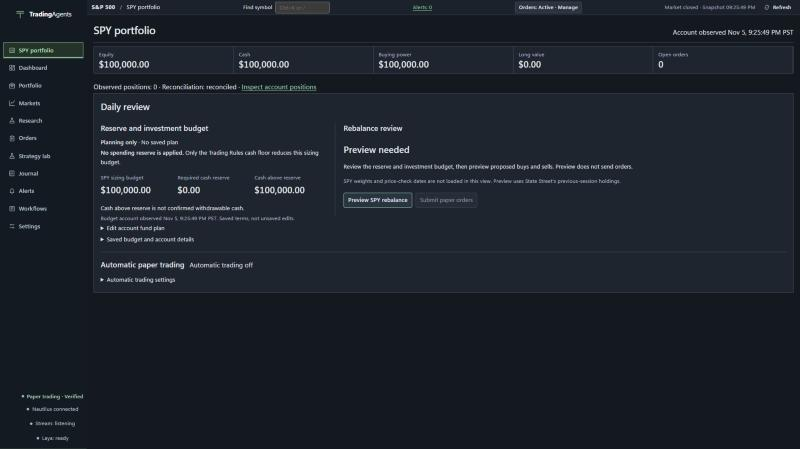
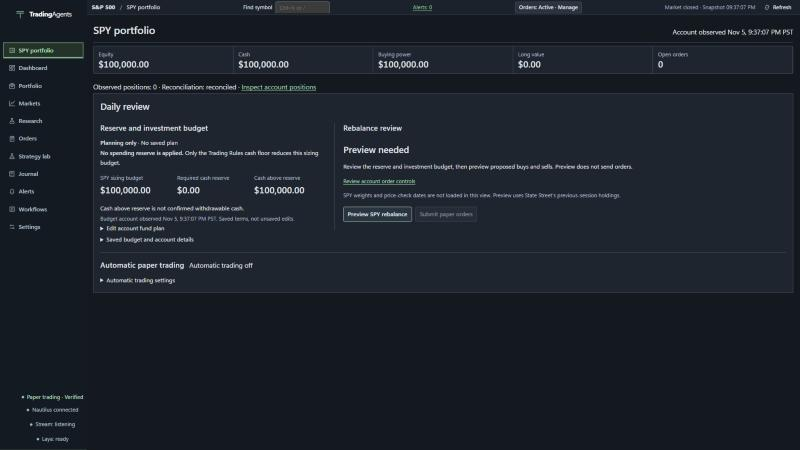
Expose SPY account exceptions and retain the recovery handoff
Reuse existing account-only submission checks without importing ticket approval rules. Keep the account-control pane visible through normal updates and preserve separate Orders-tab scroll positions. Record independent review and real clear-state navigation and preview evidence.

diff --git a/tradingagents/web/static/app.js b/tradingagents/web/static/app.js
@@ -651,11 +651,11 @@ async function readState({force=false,timeoutMs}={}){
 }
 async function act(key,path,body,success){if(busy.has(key))return;busy.add(key);errorMessage='';render();try{const result=await api(path,body);if(success)showToast(success);await readState({force:true});return result;}catch(e){setError(e.message);throw e;}finally{busy.delete(key);render();}}
 const disclosureViews=new Map(),closedDisclosures=new Map();
-const workspaceScrolls=new Map(),workspaceScrollSelectors=['.workspace-reading','.decision-reading','.settings-content','[data-alert-pane]','.alert-inspector-body','.portfolio-performance','.strategy-setup-rail','.strategy-result-reading','.spy-preview-trades'];
+const workspaceScrolls=new Map(),workspaceScrollSelectors=['.workspace-reading','.decision-reading','.settings-content','[data-alert-pane]','.alert-inspector-body','.portfolio-performance','.strategy-setup-rail','.strategy-result-reading','.spy-preview-trades','.orders-review-pane'];
 function captureWorkspaceScroll(){for(const node of document.querySelectorAll('[data-workspace-scroll-key]'))if(node.getClientRects().length)workspaceScrolls.set(node.dataset.workspaceScrollKey,[node.scrollTop,node.scrollLeft]);}
 function restoreWorkspaceScroll(){
  const record=activePage==='strategy'?[strategyTab,strategyView,strategyTab==='simulations'?evaluationItem?.id:experimentItem?.id,experimentStrategyId]:activePage==='journal'?[journalTab,journalSelected||journalRecord?.decisions?.[0]?.id,decisionTab,journalCollection]:activePage==='settings'?[settingsTab]:activePage==='portfolio'?[portfolioTab,journalCollection]:[alertsTab,attentionEvidenceRequest?.id,alertEvidenceTab];
- for(const selector of workspaceScrollSelectors)document.querySelectorAll(selector).forEach((node,index)=>{node.dataset.workspaceScrollKey=JSON.stringify([activePage,...record,selector,node.dataset.alertPane||index]);const saved=workspaceScrolls.get(node.dataset.workspaceScrollKey);if(saved){node.scrollTop=saved[0];node.scrollLeft=saved[1];}});
+ for(const selector of workspaceScrollSelectors)document.querySelectorAll(selector).forEach((node,index)=>{node.dataset.workspaceScrollKey=JSON.stringify([activePage,...record,selector,node.dataset.alertPane||node.dataset.ordersPane||index]);const saved=workspaceScrolls.get(node.dataset.workspaceScrollKey);if(saved){node.scrollTop=saved[0];node.scrollLeft=saved[1];}});
 }
 document.addEventListener('scroll',event=>{const node=event.target;if(node.dataset?.workspaceScrollKey&&node.getClientRects().length)workspaceScrolls.set(node.dataset.workspaceScrollKey,[node.scrollTop,node.scrollLeft]);},true);
 function render({force=false}={}){if(!state)return;captureWorkspaceScroll();const disclosureKey=activePage+':'+selectedSymbol,previousMain=document.querySelector('#main');if(previousMain?.dataset.contextKey){const allDetails=Array.from(previousMain.querySelectorAll('details[id]'));disclosureViews.set(previousMain.dataset.contextKey,allDetails.filter(d=>d.open).map(d=>d.id));closedDisclosures.set(previousMain.dataset.contextKey,allDetails.filter(d=>!d.open).map(d=>d.id));}const savedInput=!force&&previousMain?.dataset.contextKey===disclosureKey?captureRenderInput(previousMain):null;const before=document.activeElement,caret=[before?.selectionStart,before?.selectionEnd];renderChrome();renderNotice();if(activePage==='workflows'&&previousMain?.dataset.page==='workflows'&&!force){workflowPoll();UniverseReview.renderTicket();return;}if(activePage==='settings'&&credentialDirty&&($('#credential-alpaca')||$('#credential-service')))return;if(activePage==='settings'&&['Research','Integrations'].includes(settingsTab)&&settingsDirty&&$('#settings-form')?.isConnected&&!force){updateLayaStatus();return;}const focused=before;const focusId=focused?.id;const scrollPanel=$('#research-detail-scroll');const readingAnchor=reportReadingAnchor(scrollPanel);const previousView=scrollPanel?.dataset?.view;const reportScroll=scrollPanel?.scrollTop||0;if(previousView!==undefined)reportViews.set(previousView,{open:reportViews.get(previousView)?.open||openReportNames,scroll:reportScroll});syncReportView();const nextReportScroll=previousView===reportViewKey?reportScroll:(reportViews.get(reportViewKey)?.scroll||0);const main=$('#main'),scrolls=$$('.table-scroll,.research-rows',main).map(el=>({top:el.scrollTop,left:el.scrollLeft}));const markup=renderWorkspace();if(!force&&activePage==='research'&&main.dataset.page==='research'&&researchMarkup===markup){UniverseReview.renderTicket();ensureResultDetail();return;}researchMarkup=activePage==='research'?markup:null;const pageChanged=main.dataset.page!==activePage;const retainedModelDate=!force&&savedInput?.node===focused&&retainModelDateControls(main,markup,focused);if(!retainedModelDate)main.innerHTML=markup;main.dataset.page=activePage;if(pageChanged){main.scrollTop=0;main.scrollLeft=0;}if(['spy','markets','portfolio','orders'].includes(activePage))UniverseReview.bind();if(activePage==='alerts')UniverseReview.bindAlerts();if(activePage==='settings')bindSettings();if(activePage==='workflows')bindWorkflows();UniverseReview.renderTicket();main.dataset.contextKey=disclosureKey;for(const id of disclosureViews.get(disclosureKey)||[]){const detail=document.getElementById(id);if(detail?.tagName==='DETAILS')detail.open=true;}for(const id of closedDisclosures.get(disclosureKey)||[]){const detail=document.getElementById(id);if(detail?.tagName==='DETAILS')detail.open=false;}if(activePage==='settings'&&settingsTab==='Research'&&state.readiness?.ready===false)$('.page-heading',main).insertAdjacentHTML('afterend',`<div class="error-detail">${esc(state.readiness.message)}</div>`);if(focusId&&!retainedModelDate){let next=document.getElementById(focusId);if(next&&(focused?.dataset?.listQuery||['watchlist-name','investor-note','decision-search'].includes(focused?.id))&&next.tagName===focused.tagName){next.replaceWith(focused);next=focused;}if(next&&next.tagName===focused.tagName)next.focus({preventScroll:true});if(next?.setSelectionRange&&caret[0]!==null&&caret[0]!==undefined)try{next.setSelectionRange(...caret);}catch{}}if(!focusId&&focused?.tagName==='A'&&focused.getAttribute?.('href')){const next=$$('#navigation a').find(el=>el.getAttribute('href')===focused.getAttribute('href'));next?.focus({preventScroll:true});}if(!focusId&&focused?.dataset?.action){const next=$$('[data-action]',main).find(el=>el.dataset.action===focused.dataset.action&&el.dataset.symbol===focused.dataset.symbol&&el.dataset.proposal===focused.dataset.proposal&&el.dataset.list===focused.dataset.list&&el.dataset.direction===focused.dataset.direction&&el.dataset.order===focused.dataset.order);if(next)next.focus({preventScroll:true});}if($('#research-detail-scroll')){$('#research-detail-scroll').scrollTop=nextReportScroll;if(previousView===reportViewKey)restoreReadingAnchor($('#research-detail-scroll'),readingAnchor);}$$('.table-scroll,.research-rows',main).forEach((el,i)=>{if(scrolls[i]){el.scrollTop=scrolls[i].top;el.scrollLeft=scrolls[i].left;}});restoreWorkspaceScroll();restoreRenderInput(retainedModelDate?null:savedInput);bindTablists(main);persistView();observeChartSize();if(activePage==='overview'&&$('.chart-wrap'))ensureChart();if(activePage==='research')ensureResultDetail();}
@@ -3275,13 +3275,16 @@ function spyRebalanceMarkup(){
   state.nautilus?.status==='connected'&&state.nautilus.account?.id===account&&spyPreview.fundRevision===investorRecord.fund_plans?.revision&&spyPreview.policyRevision===investorRecord.data?.policy?.revision?spyPreview:null;
  const rows=preview?spyTradeRows(preview.trades):null;
  const message=spyPreview&&!preview?'':spyHoldingsMessage;
- const canSubmit=eligible&&!schedule.in_progress&&preview?.submitToken&&Date.now()<preview.submitExpires;
+ const accountReasons=accountOrderReasons();
+ const canSubmit=!accountReasons.length&&eligible&&!schedule.in_progress&&preview?.submitToken&&Date.now()<preview.submitExpires;
  const previewExpired=preview?.submitToken&&!canSubmit&&Date.now()>=preview.submitExpires;
  const unavailable=!account?'An eligible paper account is unavailable.':bound&&bound!==account?'The rebalance is bound to a different paper account. Review automatic trading settings.':!investorRecord.broker_transport_enabled?'Broker transport is unavailable.':!fundContract(investorRecord.fund_plans)?'The account fund plan is unavailable.':investorRecord.fund_plans.current_account_id!==account?'The fund plan does not match the eligible paper account.':'Resolve the budget error before previewing.';
- const reviewStatus=spyRebalanceBusy?'Updating rebalance…':schedule.in_progress?'Rebalance in progress':!eligible?'Rebalance unavailable':previewExpired?'Preview expired':preview?.policyBlockers.length?'Trading Rules block submission':preview&&!preview.trades.length?'No trades in this preview':canSubmit?'Preview ready for review':preview?'Preview needs refreshing':'Preview needed';
- const guidance=!eligible?unavailable:schedule.in_progress?'A rebalance is in progress. Review its status before another submission.':!preview?'Review the reserve and investment budget, then preview proposed buys and sells. Preview does not send orders.':preview.policyBlockers.length?'Resolve the Trading Rules blockers before submitting.':!preview.trades.length?'This preview contains no orders to submit.':!canSubmit?'Generate a new preview before submitting paper orders.':'Review the full proposed trade list before submitting. Submission is a separate broker action.';
+ const reviewStatus=spyRebalanceBusy?'Updating rebalance…':schedule.in_progress?'Rebalance in progress':!eligible?'Rebalance unavailable':accountReasons.length?'Submission blocked':previewExpired?'Preview expired':preview?.policyBlockers.length?'Trading Rules block submission':preview&&!preview.trades.length?'No trades in this preview':canSubmit?'Preview ready for review':preview?'Preview needs refreshing':'Preview needed';
+ const guidance=!eligible?unavailable:schedule.in_progress?'A rebalance is in progress. Review its status before another submission.':accountReasons.length?'Resolve the account conditions below before submitting. Preview does not clear them.':!preview?'Review the reserve and investment budget, then preview proposed buys and sells. Preview does not send orders.':preview.policyBlockers.length?'Resolve the Trading Rules blockers before submitting.':!preview.trades.length?'This preview contains no orders to submit.':!canSubmit?'Generate a new preview before submitting paper orders.':'Review the full proposed trade list before submitting. Submission is a separate broker action.';
  return heading+'<div class="spy-review-layout">'+fundPlanMarkup()+
   '<section class="spy-manual-review" aria-labelledby="spy-review-heading"><h3 id="spy-review-heading">Rebalance review</h3><p class="spy-review-status" role="status">'+esc(reviewStatus)+'</p><p>'+esc(guidance)+'</p>'+
+  (accountReasons.length?'<div id="spy-account-exceptions" class="warning" role="alert"><strong>Account conditions block submission</strong><ul>'+accountReasons.map(reason=>'<li>'+esc(reason)+'</li>').join('')+'</ul></div>':'')+
+  '<p class="spy-source-note"><a id="spy-account-controls" href="#orders">Review account order controls</a></p>'+
   '<p class="spy-source-note">'+(preview?'State Street SPY weights dated '+esc(preview.asOf)+' · Preview price check '+fullTime(preview.quoteAt):'SPY weights and price-check dates are not loaded in this view. Preview uses State Street’s previous-session holdings.')+'</p>'+
   (run?'<p role="status">Rebalance: '+esc(run.session+' · '+run.message+(run.total?' · '+run.completed+' of '+run.total+' processed':'')+(run.limited?' · '+run.limited+' buys reduced or skipped':''))+'</p>':'')+
   '<div class="basket-actions"><button class="primary" data-spy-rebalance="preview" '+(!eligible||spyRebalanceBusy?'disabled':'')+'>Preview SPY rebalance</button>'+
@@ -3378,6 +3381,7 @@ function bindBaskets(root){
   if(e.target.dataset.basketFill){const s=e.target.dataset.basketFill;basketForm.assumed_filled=e.target.checked?[...new Set([...basketForm.assumed_filled,s])]:basketForm.assumed_filled.filter(v=>v!==s);investorDirty=true;}
  });
  root.addEventListener('click',e=>{
+  if(e.target.closest('#spy-account-controls')){e.preventDefault();togglePause();return;}
   if(e.target.id==='spy-trade-clear'){spyTradeQuery='';const input=root.querySelector('#spy-trade-query');if(input){input.value='';updateSpyTradeFilter();input.focus();}return;}
   if(e.target.id==='fund-save'){saveFundPlan();return;}
   if(e.target.id==='fund-reload'){reloadFundPlan();return;}

diff --git a/tradingagents/web/static/command-controls.js b/tradingagents/web/static/command-controls.js
@@ -51,8 +51,8 @@ function orderSessionNotice(order,terms){
  return '<p>Reviewed session: '+esc(reviewed)+' · broker-reported session: '+esc(broker)+'. Broker session is retained for cancellation/replacement review; it is not silently changed to regular.</p>'+((order?.extended_hours===true||terms?.session==='extended')?'<p>Extended includes pre-market, after-hours and potentially overnight according to current broker/account/asset capabilities. It does not guarantee pre/post-only execution or an overnight IEX quote. Replacements cannot change the session.</p>':'');
 }
 function linkedOrderNotice(order){return order?.group_parent_id||['bracket','oto','oco'].includes(order?.group_class)?'<p>Canceling a linked order asks Alpaca to cancel the remaining linked orders. '+(order.group_class==='oco'?'These exits share existing shares; canceling them leaves those shares without these exits.':'A partial entry can remain without an active exit.')+' Bracket and OCO exits support price-only changes with new exact approval; OTO replacement is unsupported.</p>':'';}
-function orderReadiness(){
- const record=state.commands||{},data=record.data||{},runtime=state.nautilus||{},sync=runtime.reconciliation||{},investor=state.investor||{},reasons=[];
+function accountOrderReasons(){
+ const record=state.commands||{},data=record.data||{},runtime=state.nautilus||{},sync=runtime.reconciliation||{},reasons=[];
  if(record.execution_enabled!==true)reasons.push('Order submission is unavailable in this browse-only session.');
  if(stateErrorMessage||state.connection?.connected!==true||state.connection?.account_verified!==true)reasons.push('Current account and Nautilus sync are unverified; refresh the local service. Saved pause and order records remain separate.');
  if(runtime.status!=='connected')reasons.push('Account connection: '+(runtime.status||'not connected')+(runtime.error?' · '+runtime.error:'. Connect or refresh the account.'));
@@ -60,6 +60,10 @@ function orderReadiness(){
  if(data.new_orders_blocked===true)reasons.push('You have paused new orders.');
  if(runtime.status==='connected'&&sync.status!=='reconciled')reasons.push('Nautilus account sync: '+((sync.gaps||[]).join('; ')||runtime.native_import_gap||'account and order observations are incomplete.'));
  if(data.recovery_required&&sync.status==='reconciled')reasons.push('Account and order sync: '+(data.recovery_reason||'current order outcomes need to be checked.'));
+ return reasons;
+}
+function orderReadiness(){
+ const record=state.commands||{},data=record.data||{},runtime=state.nautilus||{},investor=state.investor||{},reasons=accountOrderReasons();
  const items=(investor.data?.proposals||[]).filter(p=>p.status==='draft').map(proposal=>{
   const evaluation=investor.current_checks?.[proposal.id],approvals=Object.values(data.approvals||{}).filter(a=>a.proposal_id===proposal.id),eligible=approvals.filter(a=>record.approval_states?.[a.id]==='approved_awaiting_admission'||record.approval_states?.[a.id]==='admitted'&&Object.values(data.commands||{}).some(c=>c.approval_id===a.id&&c.state==='admitted_not_dispatched')),approval=eligible.find(a=>evaluation?.binding_sha256&&a.evaluation_binding_sha256===evaluation.binding_sha256);
   const blockers=[...(evaluation?.blockers||[])];if(!evaluation)blockers.push('Current order checks are unavailable. Refresh to check again.');

diff --git a/docs/issues/2026-11-05-dogfood-spy-account-exceptions.md b/docs/issues/2026-11-05-dogfood-spy-account-exceptions.md
@@ -1,0 +1,45 @@
+# Dogfood: SPY account exceptions and recovery handoff
+
+Status: complete for the scoped implementation and observed clear-state/handoff paths. Blocked states remain source-reviewed only.
+
+## Scope and evidence
+
+Baseline f112f77 on nautilus. Current brief read first. Preserve the completed resting layout and unrelated README/loop edits and ledger deletion. One item: expose existing account-wide conditions that block SPY submission and make the account-control handoff remain visible through normal updates. No financial/backend change or broker action.
+
+The existing hidden recovery/ticket markup is not proof of a current incident. Actual read-only inspection showed account reasons empty and ticket label No approved order. These are different concepts. Independent contract map wf_45a7d62f-2bb confirmed that SPY server preflight rejects account-wide pause/recovery and other conditions, but the UI can retain an enabled Submit and Preview ready status after such a condition changes. That mismatch is source evidence, not an observed order or server-guard failure.
+
+The real Manage handoff did reveal a navigation defect: focus was account-order-controls, but its top was y1572.625 while the pane ended at y1064 and scrollTop was0 after ordinary updates. The pane was not included in the existing scroll-retention selectors.
+
+## Implementation and constraints
+
+Extract the existing account-only reason collection unchanged from human order readiness. Both ticket readiness and SPY reuse it, without importing proposal approvals, items or a ready-order count into SPY. Existing SPY financial/preview bindings remain; a listed account condition additionally disables Submit and produces visible reasons outside disclosures. Preview is still a separate review action and never clears a block. The new Review account order controls link reuses the existing navigation-only Manage handler; it changes no pause or authority flag.
+
+Retain the Orders review pane through the existing workspace-scroll path, keyed by its actual Orders tab. No new focus/scroll manager or timer. All original finance, server preflight, exact approval, submission, queued cancel and standing authority semantics remain.
+
+Installed Impeccable context was already loaded once. Applied Operate harden/clarify and polish guidance, with craft floor read before UI edits. Keep existing tokens, full-width prose and native controls; no redesign. The prior official Fidelity/IBKR/thinkorswim visual research informs monitoring/action separation, not a new brokerage capability.
+
+Only the real existing development desk on8099 at actual1920 ×1080 is used. Do not create blocked states by pausing, disconnecting, changing authority or fabricating data/events. No tests/mocks, credentials/configuration stores, production operations or new server. Source review of unobserved blocked cases remains source-only.
+
+## Source scrutiny and affected observations
+
+Fresh independent review wf_472d7b8e-626 found no actionable issue at app96c3d807ff0e45e65be6a559041191d6c47c8f45 and command-controls29cf7f519a5a28b1acdcef73bc92e496a66ba4a4. It checked the unchanged account predicates, independent ticket/SPY handling, bindings and navigation/scroll restoration. This is source-only review, not observed blocked-state or broker acceptance.
+
+The initial real clear-state render showed no account reasons, no exception banner, Preview needed and disabled Submit without a preview. Ticket readiness still said No approved order. The new link was visible, the root bound once and no horizontal overflow appeared.
+
+Native Review account order controls navigation selected Orders → Ticket & Blotter and focused account-order-controls. The pane scrolled to980; the heading was y592.625–616.922 and Pause/Resume y734.484–770.484, all inside the visible pane ending at1064. No pause control was activated. Normal replacement/retention follow-through is checked while documentation is updated.
+
+Normal-update follow-through passed: the stored original account heading disconnected, its replacement retained focus, the pane stayed at scrollTop980 and the heading/controls remained visible. Orders stayed Active and account reasons remained empty. Fills & Fees opened with its own key and scrollTop0; returning to Ticket & Blotter restored980 and its visible account heading. No control or broker action was activated.
+
+The selected guide image is the real clear-state SPY view with the new link, not a staged blocker. Actual viewport1920 ×1080, Browser image800 ×450, blob c3387d93be9522ffc16be6736426f866dc5ddc95. Primary visually checked it for account IDs, credentials, private notes and unrelated desktop content; none are visible. JPEG inspection found no EXIF/XMP/IPTC segment. It matches ignored spy-account-exceptions-clear-1080p.jpg byte-for-byte. The handoff screenshot remains ignored evidence; no private order/account image is promoted.
+
+One actual dry-run Preview checked the changed no-block eligibility path. Account reasons were empty while the separate ticket label remained No approved order. SPY showed Preview ready for review with Submit enabled by its existing token gate. The response contained503 planned trades, weights dated2026-11-04 and price check5November2026 at21:40:45PST. This verifies that human-ticket approval was not accidentally imported as an account block. Submit was not activated. Automatic trading remained off and the new-order gate Active. No console errors or horizontal overflow were reported. Unchanged filtering and the prior full layout/disclosure cycle were not repeated.
+
+Blocked, paused, disconnected, broker-blocked, browse-only and recovery transitions were not induced. Their presentation/disable behavior is source-reviewed only. No clear-state result proves the absence of working commitments, a fresh exact preflight, broker admission/execution, full SPY release readiness or total-return parity. The server remains authoritative. The existing legacy Orders SPY entry shares the reviewed renderer and handlers; this batch did not repeat its previously passing populated-preview cycle.
+
+No order approval/submission/cancel/replace, pause/resume, authority change, fund save, research/model/simulation run, automated test/mock, production operation, private configuration/credential read, package build or server restart occurred. Only the actual dry-run preview was generated.
+
+Final source: app96c3d807ff0e45e65be6a559041191d6c47c8f45; command-controls29cf7f519a5a28b1acdcef73bc92e496a66ba4a4. Application delta15 added/7 removed lines, no financial/backend/test changes. Syntax, whitespace and scoped layout detector passed. Product/local guide and operating reference describe exact labels and boundaries. The installed operating reference is compared against HEAD before copying and checked byte-for-byte afterward.
+
+Primary decision: accept this complete scoped implementation with observed clear-state and handoff acceptance, and explicit source-only blocked-state limits. Fresh source review found no actionable issue and the real focus/visibility failure is corrected through normal node replacement and separate tab scroll keys. Commit locally on nautilus without push, preserving unrelated README/loop changes and ledger deletion.
+
+Reusable evidence lesson: memory://knowledge/projects/tradingagents/tradingagents-hidden-status-text-is-not-current-broker-block-evidence. Hidden legacy markup is not a current broker-block observation.

diff --git a/docs/images/README.md b/docs/images/README.md
@@ -11,14 +11,14 @@ no values or states were repainted.
 | `research-review.jpg` | 5 November 2026 | `753df7a`; 1024 × 768 browser viewport, 800 × 600 image | AAPL inspection, search separate from batch selection, result-status filters and coverage gaps |
 | `spy-rebalance-preview.jpg` | 5 November 2026 | `38b94f1`; 1024 × 768 browser viewport, 800 × 600 image | A real 503-trade preview with a view-only AAPL filter showing one row |
 | `spy-fund-plan.png` | 5 November 2026 | `7df8b5b`, app blob `5e9b27533a4498f94af9b65629556c4c5b8114c3`; real 1920 × 1080 viewport, 706 × 153 detail image | Compact reserve/SPY budget, secondary editing/details and native keyboard focus |
-| `spy-portfolio.jpg` | 5 November 2026 | Source batch based on `399148b`, app blob `b7ad2b18a2d96de0f6ca24e7cb79cf68e7b0479e`; real 1920 × 1080 viewport, 800 × 449 Browser capture | Read-first daily review, sourced reserve/budget, primary Preview and secondary automatic settings |
+| `spy-portfolio.jpg` | 5 November 2026 | Based on `f112f77`, app `96c3d807ff0e45e65be6a559041191d6c47c8f45`, command controls `29cf7f519a5a28b1acdcef73bc92e496a66ba4a4`; real 1920 × 1080 viewport, 800 × 450 Browser capture | Clear-state SPY review and the new account-control handoff link; no blocked state is pictured |
 
 `spy-portfolio.jpg` is an unchanged full Browser screenshot from the accepted
-read-first resting overview, not a cropped smaller layout. Its actual viewport
-was 1920 × 1080; the tool rendered it at 800 × 449. Fund and automatic settings
+clear-state account-exception overview, not a cropped smaller layout. Its actual viewport
+was 1920 × 1080; the tool rendered it at 800 × 450. Fund and automatic settings
 are closed, automatic trading is off and Submit is disabled. The selected JPEG
 matches the ignored raw file byte-for-byte and has no EXIF/XMP/IPTC segment. Its
-Git blob is `7fd08af5984a0d175e15cb36ed1fcdb249c0c22c`. Primary inspected the
+Git blob is `c3387d93be9522ffc16be6736426f866dc5ddc95`. Primary inspected the
 visible image: no account identifier, credential, private note or unrelated
 desktop content. This is scoped overview evidence, not broker acceptance,
 full-journey acceptance or return parity.
@@ -42,7 +42,8 @@ Original ignored evidence under `.local-workspace/dogfood-20261105/`:
 - `spy-fund-plan-focus-corrected-after-1080p.jpg` — full rendered pane image
 - `spy-fund-plan-focus-corrected-detail-1080p.png` — exact promoted region capture
 - `spy-primary-entry-after-1080p.jpg` — historical primary-entry capture
-- `spy-read-first-resting-1080p.jpg` — exact current promoted overview
+- `spy-read-first-resting-1080p.jpg` — historical read-first overview
+- `spy-account-exceptions-clear-1080p.jpg` — exact current promoted clear-state overview
 
 Acceptance records:
 
@@ -52,6 +53,7 @@ Acceptance records:
 - [Fund-plan presentation and corrected focus](../issues/2026-11-05-dogfood-spy-fund-plan-disclosure.md)
 - [Primary SPY entry and navigation](../issues/2026-11-05-dogfood-spy-primary-workspace.md)
 - [Read-first SPY daily review](../issues/2026-11-05-dogfood-spy-read-first-overview.md)
+- [SPY account exceptions and handoff](../issues/2026-11-05-dogfood-spy-account-exceptions.md)
 
 When a pictured workflow changes, replace its guide image after affected
 verification and update this note. Preserve raw evidence separately; do not create

diff --git a/.agents/skills/use-tradingagents/references/portfolio-orders-journal.md b/.agents/skills/use-tradingagents/references/portfolio-orders-journal.md
@@ -80,6 +80,8 @@ Current tabs: **Ticket & Blotter**, **Fills & Fees**, **Human Baskets**, **SPY R
 
 **Daily review layout (1080p, 5 November 2026).** Reserve and investment budget sits beside Rebalance review. The figures are SPY sizing budget, required cash reserve and cash above reserve, based on saved terms and a dated account observation. An absent or planning-only spending plan explicitly says no spending reserve is applied; only the Trading Rules floor reduces sizing. Cash above reserve is not confirmed withdrawable cash. Preview is the primary manual action. Its status explains why submission is unavailable. A completed preview displays the returned State Street weights date and preview price-check time; before that, these dates are not loaded in this view. Automatic paper trading status remains visible, with the separate enable/disable control under **Automatic trading settings**. Opening the disclosure changes no authority.
 
+**Account submission exceptions.** SPY shows the shared account-only conditions for submission availability, unverified connection, broker trading block, paused new orders and incomplete sync or recovery. A listed condition disables **Submit paper orders** and stays visible outside disclosures. It is not a human-ticket approval requirement. **Review account order controls** opens **Orders → Ticket & Blotter**, focuses the existing account controls and keeps that pane position through ordinary updates, separately for each Orders tab. Navigation changes no pause, approval or authority. Preview remains a separate review action; absence of a listed exception does not establish a complete SPY preflight pass. The server rechecks freshness, working commitments and exact bindings. Blocked-state presentation remains source-only when no actual exception is present; do not manufacture one for a walkthrough.
+
 **Find planned stock** filters preview rows only. The count distinguishes matching rows from the complete plan. Clear or no-match changes no trades, preview identity or authority. An expired retained preview explains **Preview** refresh, disables Submit and keeps the plan/filter readable. Observed lookup and natural expiry did not create a preview, enable authority or place trades. Use current preview facts; screenshots show dated examples.
 
 ### Ticket & Blotter record types

diff --git a/docs/local-desk-guide.md b/docs/local-desk-guide.md
@@ -289,7 +289,7 @@ Simulations**. Reusable experiments are **Strategy lab → Experiments**.
 
 | Page | How to use it |
 | --- | --- |
-| SPY portfolio | Start with the observed account, then read Reserve and investment budget beside Rebalance review. No saved spending plan is not a zero-needs plan. Inspect account positions for holdings. Preview shows dated proposed trades; automatic authority lives separately under Automatic trading settings. Preview, authority and submission remain separate actions. |
+| SPY portfolio | Start with the observed account, then read Reserve and investment budget beside Rebalance review. No saved spending plan is not a zero-needs plan. Inspect account positions for holdings. Preview shows dated proposed trades; automatic authority lives separately under Automatic trading settings. Review account order controls opens existing Orders management without changing pause or authority. Listed account exceptions disable Submit; server checks still apply. Preview, authority and submission remain separate actions. |
 | Portfolio | Check account balances and holdings; scan the universe using search, filters, sorting and columns. Select stocks to organize watchlists. Open a stock's market evidence and available charts before relying on an agent recommendation. |
 | Research | Choose a stock's latest saved result. Read the reports, debate and final decision; inspect source dates and failures. Record human review disposition and priority. Saved reports do not become current research merely because today's price changed. |
 | Orders | Create or review a local proposal or basket. Check symbol, side, quantity, order type, limit price when applicable and time in force. Read readiness reasons. Approve exact terms, then separately Submit only when intentionally placing an order. |

diff --git a/docs/platform-reference.md b/docs/platform-reference.md
@@ -21,7 +21,13 @@ Automatic trading status stays visible, with its authority control under
 to trade. The preview shows its returned SPY weights date and price-check time;
 without a preview those dates are explicitly not loaded in this view. Portfolio's **Open account fund plan** opens the primary SPY editor directly.
 Orders → SPY Rebalance remains an alternate entry to the same in-session plan and
-preview. Navigation changes no plan terms or trading authority. This entry is not
+preview. Known account-wide submission exceptions are shown in SPY, outside disclosures,
+and additionally disable Submit. They reuse the account checks, not human-proposal
+approval or the ticket ready count. **Review account order controls** opens
+Orders management and focuses its account controls; ordinary updates retain that
+pane by Orders tab. An empty exception list does not establish a complete SPY preflight pass.
+The server still checks freshness, commitments and exact preview bindings.
+Navigation changes no plan terms or trading authority. This entry is not
 acceptance of the full execution/reconciliation journey or SPY return parity.
 
 ## Fixed-portfolio hindsight evaluation
